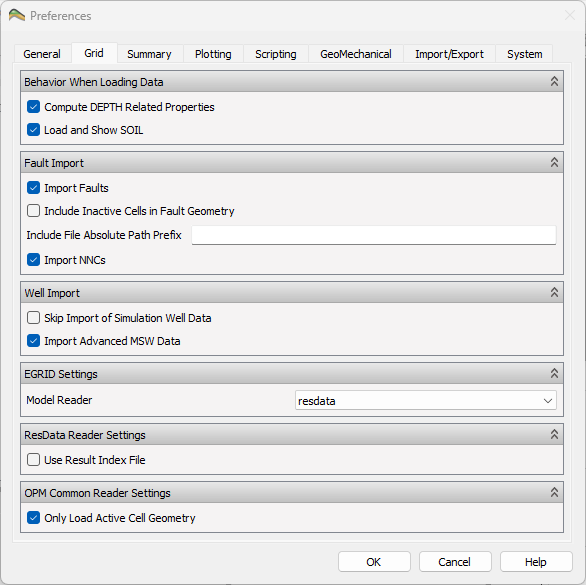
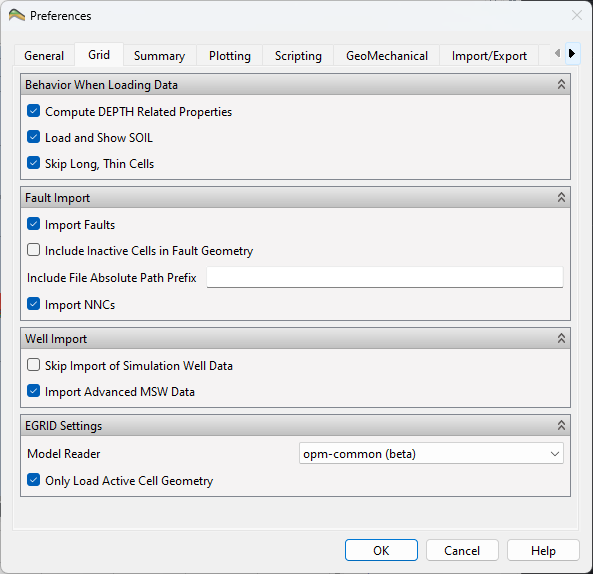
Add import of active cells to Preferences and performance

diff --git a/content/getting-started/whats-new/releasenotes_2024_12.md b/content/getting-started/whats-new/releasenotes_2024_12.md
@@ -9,8 +9,7 @@ hidden = true
 
 ResInsight now offers the option to import geometry exclusively for active cells. This feature is particularly beneficial for large grids where active cells constitute only a small fraction of the total, significantly reducing memory usage. This optimization ensures efficient handling of large models while maintaining full functionality for active cells.
 
-
- TODO: link to opm-common active cells
+[Preferences]({{< relref "preferences" >}}#grid)
 
 [Performance Hints]({{< relref "performancehints" >}})
 
@@ -18,7 +17,7 @@ ResInsight now offers the option to import geometry exclusively for active cells
 
 ![]({{< relref "" >}}images/cloud-services/osdu-well-path-3dview.png)
 
-When we access cloud services, an authentication token is stored to a file in your home folder. In some situations this token can become invalid causing the cloud connection to fail. If this happens, a button in Preferences can be used to delete this token. The next time you try to access cloud services, the normal authentication dialog will be displayed and a fresh token is created.
+When accessing cloud services, an authentication token is saved to a file in your home folder. Occasionally, this token may become invalid, leading to a failure in establishing a cloud connection. If this occurs, you can resolve the issue by using the **Delete Token** button in the **Preferences** menu. Once the token is deleted, the authentication dialog will appear the next time you attempt to access cloud services, and a new token will be generated automatically.
 
 [Cloud Services]({{< relref "cloudservices" >}})
 
@@ -29,17 +28,21 @@ When we access cloud services, an authentication token is stored to a file in yo
 
 ![]({{< relref "" >}}images/3d-main-window/quick-access-main.png)
 
-For large projects with many views and many grid models, it can take some time to navigate to the information you are looking for. We have now added a special dialog named **Quick Access**, where selected information from a view is displayed. The default location for the dialog is at to the right of the 3D views.
+For large projects with numerous views and grid models, navigating to specific information can sometimes be time-consuming. To address this, we've introduced a dedicated dialog called **Quick Access**. This dialog displays selected information from a view, making it easier to find what you need efficiently.  
+
+By default, the **Quick Access** dialog is located to the right of the 3D views.  
 
 [Quick Access]({{< relref "quickaccess" >}})
 
 ## Framework Updates
-Qt has been updated from version 5 to version 6. This is a quite large change that affects several parts, especially the application engine of ResInsight. Some visual user interface features will be affected. The font system is updated, and the appearance and size of fonts will on some systems be slightly different. The default spacing between elements in the user interface is increased slightly.
+Qt has been upgraded from version 5 to version 6, bringing significant changes that impact several aspects of ResInsight, particularly its application engine. This update affects certain visual features of the user interface:  
 
-The build instructions is now updated for Qt 6
+- The font system has been modernized, which may result in subtle differences in font appearance and size on some systems.  
+- Default spacing between interface elements has been slightly increased to improve layout consistency.  
+
+Additionally, the build instructions have been updated to align with Qt 6. Building with Qt 5 is no longer supported.
+
 [Build Instructions Ubuntu]({{< relref "build-instructions-ubuntu" >}})
-
-
 
 ## Other improvements
 - Summary Table: Add user option to set time range on x-axis [#11803](https://github.com/OPM/ResInsight/issues/11803)
@@ -48,28 +51,9 @@ The build instructions is now updated for Qt 6
 - Plot scaled and unscaled relperm curves in the same plot [#11684](https://github.com/OPM/ResInsight/issues/11684)
 - Fix visibility control of curve legends [#11966](https://github.com/OPM/ResInsight/issues/11966)
 - Fixed issues with P10 and P90 curves for some wells [#11941](https://github.com/OPM/ResInsight/issues/11941)
-- 
-
-
-
-
-
-
+ 
 ## Python API
 - Make all features for **Completion Export Parameters** and **Multi Segment Well Options** available in Python.
 - If a field is available in Python, the Python code to access this field can be copied using the right-click menu on the label in the **Property Editor** https://github.com/OPM/ResInsight/issues/11923
 
-
-
 See [**Release Notes on GitHub**](https://github.com/OPM/ResInsight/releases/) for further details and information.
-
-
-
-
-
-## Eksempel
-![]({{< relref "" >}}images/plot-window/VFP_Plot.png)
-
-The import of VFP data is changed, and the management of VFP Plots is now improved.
-
-[VFP Plots]({{< relref "vfpplot" >}})

diff --git a/content/scripting/PythonInterface.md b/content/scripting/PythonInterface.md
@@ -1,20 +1,18 @@
 +++
-title = "Python interface"
+title = "Python Interface"
 published = true
 weight = 15
 +++
 
 ![]({{< relref "" >}}images/scripting/python-logo-master-v3-TM.png)
 
-ResInsight offers a powerful programming interface which allows you to interact with a running ResInsight instance 
-from [Python 3](https://www.python.org/download/releases/3.0/). 
-This enables you to:
+ResInsight provides a robust programming interface that allows you to interact with a running ResInsight instance using [Python 3](https://www.python.org/download/releases/3.0/). This interface enables you to:
 
-* start ResInsight from Python
-* communicate with an a running ResInsight instance
-* load a ResInsight project file
-* load data files such as Eclipse EGRID files and summary files
-* extract data to Python for further processing and automation
-* export snapshots of graphics
+* Start ResInsight from Python
+* Communicate with a running ResInsight instance
+* Load a ResInsight project file
+* Load data files such as Eclipse EGRID files and summary files
+* Extract data to Python for further processing and automation
+* Export snapshots of graphics
 
-Please refer to the [ResInsight Python API](https://api.resinsight.org) for configuration and details. 
+For configuration and detailed information, please refer to the [ResInsight Python API](https://api.resinsight.org).

diff --git a/content/best-practices/PerformanceHints.md b/content/best-practices/PerformanceHints.md
@@ -16,6 +16,14 @@ For best performance, transform these data files to **ESMRY File Format**
 [Summary Data Import]({{< relref "summarydata" >}})
 
 ## Grid Data
-ResInsight has two grid import readers, **ResData** and **opm-common**. For best performance, use **opm-common**. 
+ResInsight has two grid import readers, **ResData** and **opm-common**. 
+
+#### opm-common
+ResInsight now offers the option to import geometry exclusively for active cells. This feature is particularly beneficial for large grids where active cells constitute only a small fraction of the total, significantly reducing memory usage. This optimization ensures efficient handling of large models while maintaining full functionality for active cells. Enable this option using the checkbox **Only Load Active Cell Geometry**
+
+Features currently not supported when using **opm-common**
+- Relative Permeability plots
+- PVT plots
+- Flow Diagnostics
 
 [Preferences]({{< relref "preferences" >}})

diff --git a/content/misc/Preferences.md b/content/misc/Preferences.md
@@ -52,8 +52,8 @@ When changing the preferences, any default color, font or Z-scale Factor that ha
   - **Skip Import of Simulation Well Data** -- Disable import of simulation well data for reducing case import time.
   - **Import Advanced MSW Data**
 
-- EGRID Settings
-  - **Use Result Index File** -- If enabled ResInsight will try to save a result index file when opening a new case (stored in the same directory as the _`*.EGRID`_ file with filename _`<casename>.RESINSIGHT_IDX`_) If existing, ResInsight will use the index file when loading the case resulting in a significant speedup.
+- Model Reader
+  - Select between **ResData** and **opm-common**
 
 
 ## Summary
